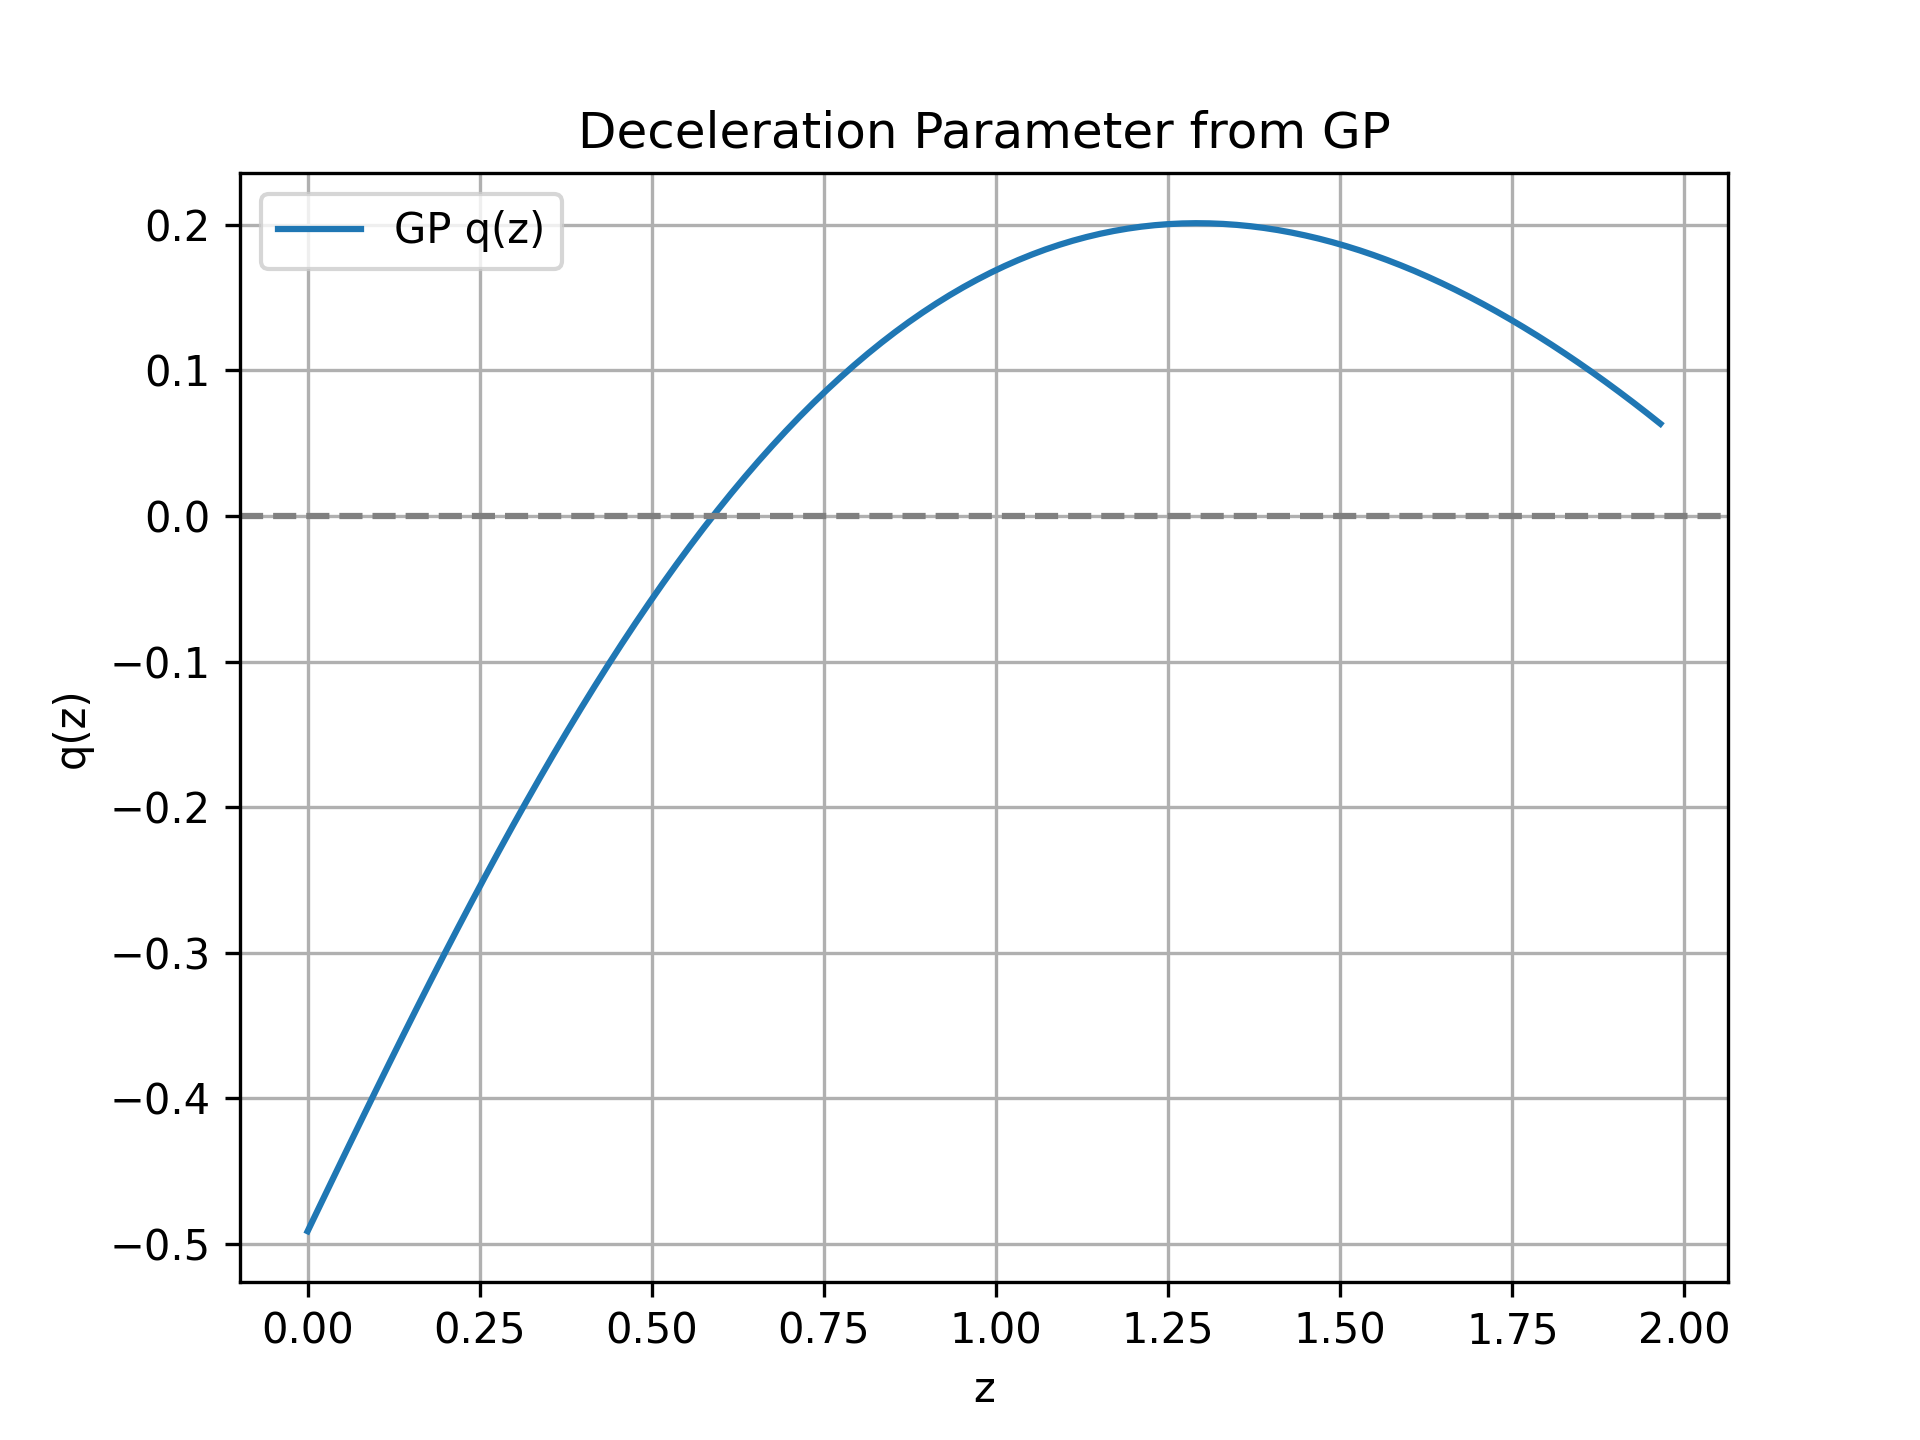
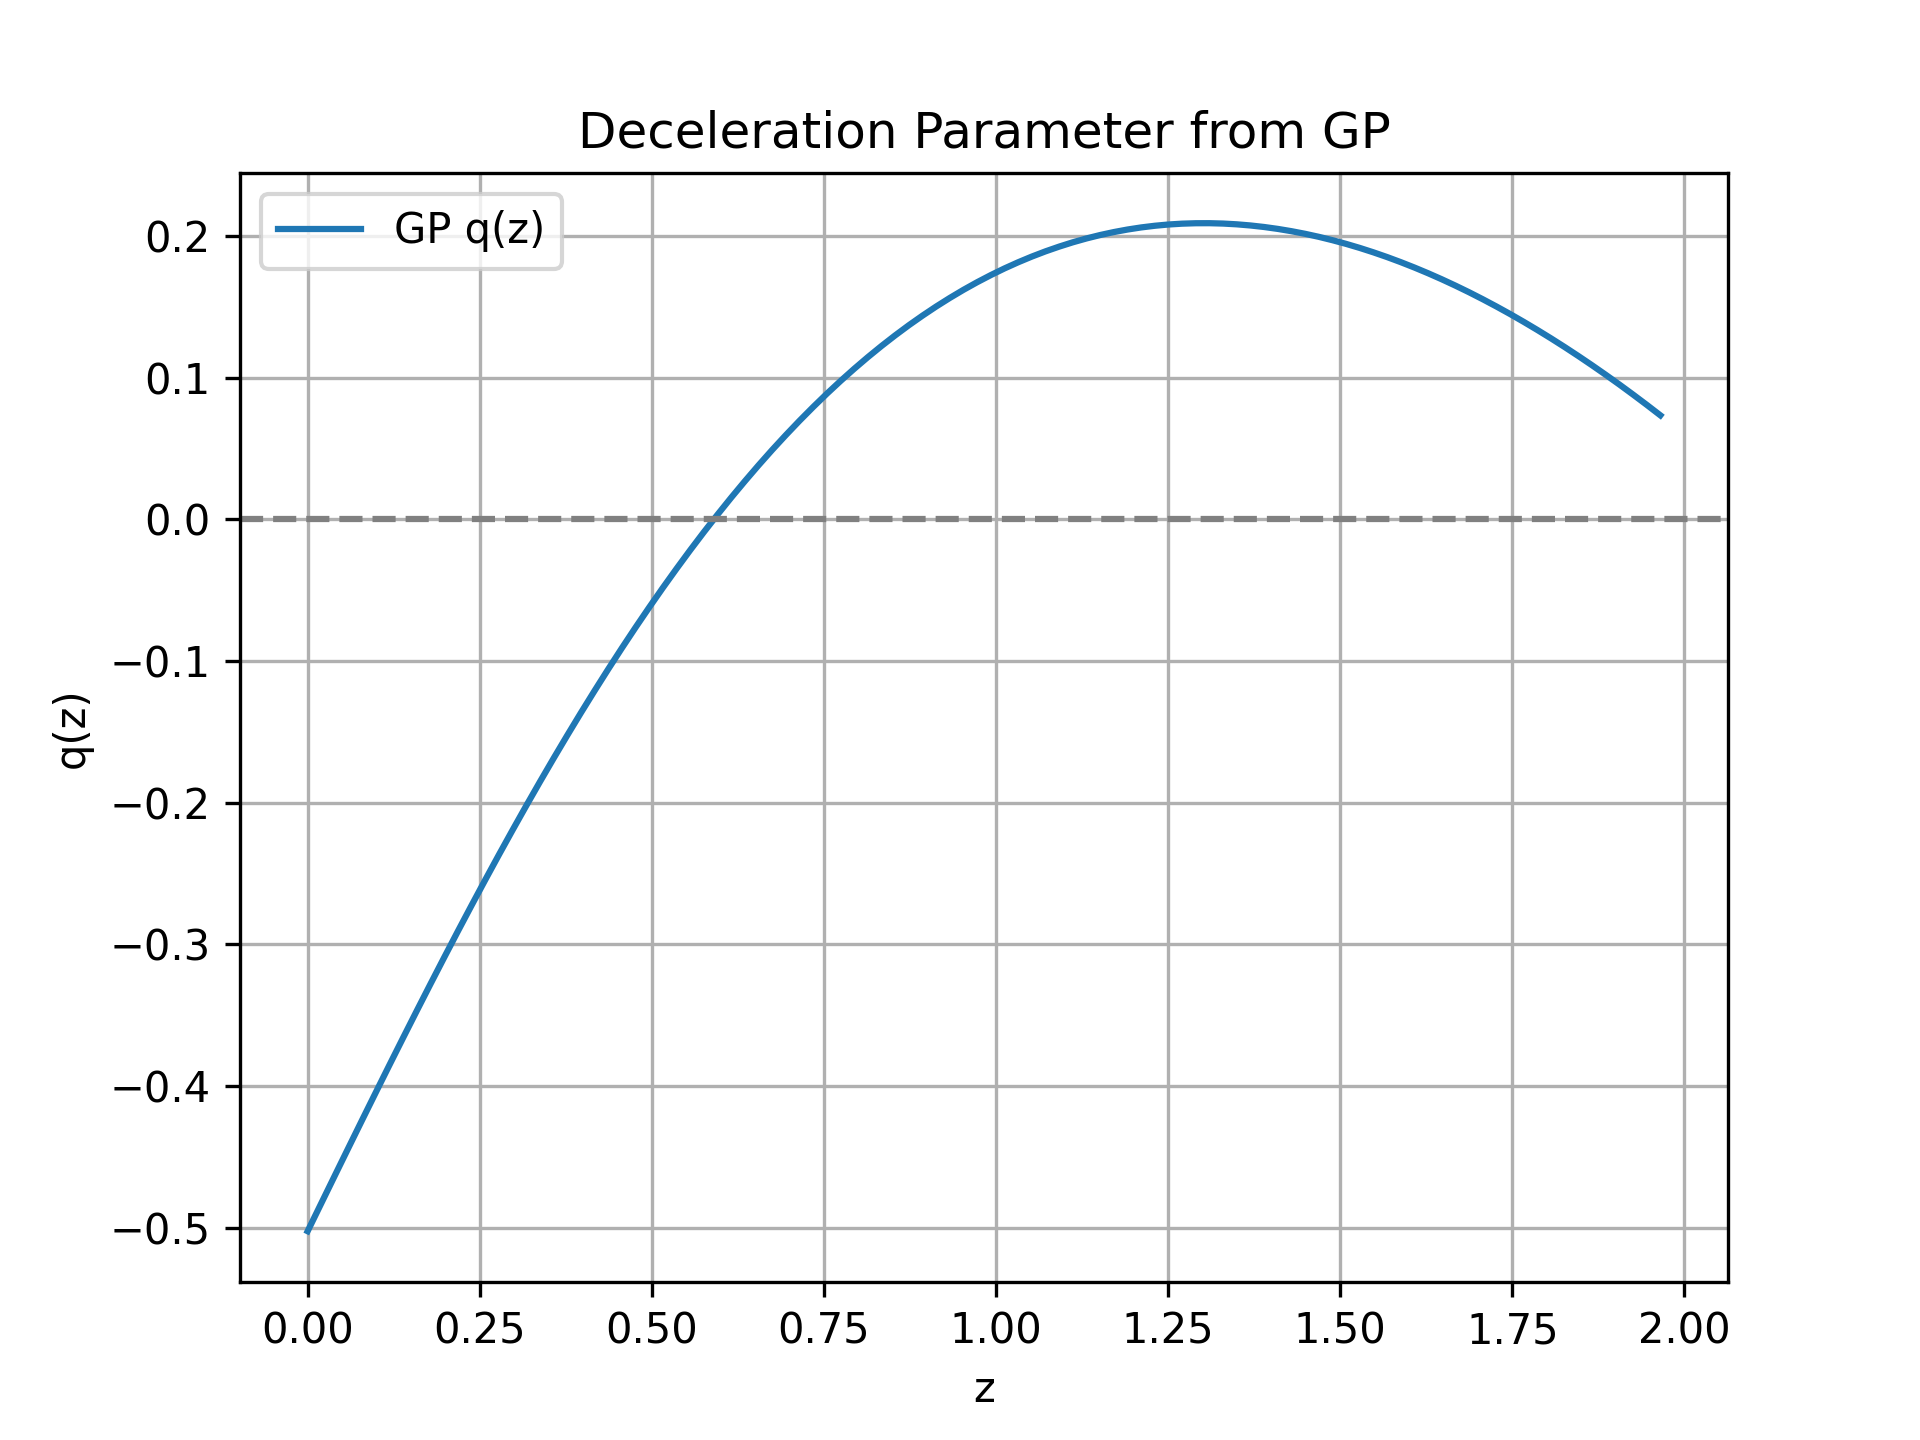
new cc data point from Loubser 2025

diff --git a/bao/desi_union3_cc.py b/bao/desi_union3_cc.py
@@ -255,77 +255,77 @@ if __name__ == "__main__":
 
 """
 Flat ΛCDM: w(z) = -1
-f_cc: 1.47 +0.19 -0.18
-ΔM: -0.119 +0.115 -0.115
-H0: 68.7 +2.3 -2.3
-r_d: 147.0 +5.0 -4.7
+f_cc: 1.47 +0.18 -0.18
+ΔM: -0.121 +0.113 -0.113
+H0: 68.6 +2.3 -2.3
+r_d: 147.1 +5.0 -4.6
 Ωm: 0.305 +0.008 -0.008
 w0: -1
-Chi squared: 70.15
-Degrees of freedom: 62
+Chi squared: 71.07
+Degrees of freedom: 63
 Correlation matrix:
-[[ 1.           7.49106e-03  6.71558e-04 -1.26503e-02  2.09495e-02]
- [ 7.49106e-03  1.           6.40112e-01 -6.30322e-01 -1.35075e-01]
- [ 6.71558e-04  6.40112e-01  1.          -9.78489e-01 -2.36343e-01]
- [-1.26503e-02 -6.30322e-01 -9.78489e-01  1.           5.37473e-02]
- [ 2.09495e-02 -1.35075e-01 -2.36343e-01  5.37473e-02  1.         ]]
+[[ 1.       0.00839  0.00528 -0.01803  0.02173]
+ [ 0.00839  1.       0.63723 -0.62528 -0.14372]
+ [ 0.00528  0.63723  1.      -0.97817 -0.24218]
+ [-0.01803 -0.62528 -0.97817  1.       0.05877]
+ [ 0.02173 -0.14372 -0.24218  0.05877  1.     ]]
 
 ==============================
 
 Flat wCDM: w(z) = w0
-f_cc: 1.46 +0.19 -0.18
-ΔM: -0.157 +0.115 -0.117 mag
-H0: 67.1 +2.4 -2.4 km/s/Mpc
-r_d: 147.1 +5.0 -4.7 Mpc
-Ωm: 0.298 +0.009 -0.009
-w0: -0.870 +0.051 -0.051
-Chi squared: 63.48
-Degrees of freedom: 61
+f_cc: 1.47 +0.19 -0.18
+ΔM: -0.158 +0.116 -0.117 mag
+H0: 67.1 +2.4 -2.3 km/s/Mpc
+r_d: 147.3 +5.0 -4.7 Mpc
+Ωm: 0.299 +0.009 -0.009
+w0: -0.871 +0.051 -0.051
+Chi squared: 64.53
+Degrees of freedom: 62
 Correlation matrix:
-[[ 1.       0.01204  0.00619 -0.01633  0.02709 -0.01335]
- [ 0.01204  1.       0.6522  -0.632   -0.07193 -0.13818]
- [ 0.00619  0.6522   1.      -0.94934 -0.09762 -0.27298]
- [-0.01633 -0.632   -0.94934  1.       0.04122  0.02225]
- [ 0.02709 -0.07193 -0.09762  0.04122  1.      -0.36839]
- [-0.01335 -0.13818 -0.27298  0.02225 -0.36839  1.     ]]
+[[ 1.       0.01169  0.01152 -0.0159   0.02073 -0.02177]
+ [ 0.01169  1.       0.6528  -0.63128 -0.07639 -0.1442 ]
+ [ 0.01152  0.6528   1.      -0.94895 -0.10269 -0.27759]
+ [-0.0159  -0.63128 -0.94895  1.       0.04269  0.0253 ]
+ [ 0.02073 -0.07639 -0.10269  0.04269  1.      -0.3544 ]
+ [-0.02177 -0.1442  -0.27759  0.0253  -0.3544   1.     ]]
 
 ==============================
 
 Flat alternative: w(z) = -1 + 2 * (1 + w0) / (1 + (1 + z)**3)
-f_cc: 1.45 +0.19 -0.18
-ΔM: -0.164 +0.115 -0.117 mag
+f_cc: 1.46 +0.18 -0.18
+ΔM: -0.165 +0.115 -0.117 mag
 H0: 66.7 +2.4 -2.3 km/s/Mpc
-r_d: 147.1 +5.0 -4.7 Mpc
-Ωm: 0.310 +0.009 -0.009
-w0: -0.810 +0.065 -0.067
-Chi squared: 61.60
-Degrees of freedom: 61
+r_d: 147.2 +5.0 -4.7 Mpc
+Ωm: 0.310 +0.009 -0.008
+w0: -0.811 +0.066 -0.067
+Chi squared: 62.59
+Degrees of freedom: 62
 Correlation matrix:
-[[ 1.       0.01143  0.01474 -0.01612  0.00612 -0.03317]
- [ 0.01143  1.       0.64719 -0.62638 -0.15679 -0.13828]
- [ 0.01474  0.64719  1.      -0.9393  -0.26979 -0.29549]
- [-0.01612 -0.62638 -0.9393   1.       0.04681  0.00607]
- [ 0.00612 -0.15679 -0.26979  0.04681  1.       0.24582]
- [-0.03317 -0.13828 -0.29549  0.00607  0.24582  1.     ]]
+[[ 1.       0.00697  0.01083 -0.01303  0.00814 -0.02863]
+ [ 0.00697  1.       0.6435  -0.61921 -0.16838 -0.14937]
+ [ 0.01083  0.6435   1.      -0.93879 -0.2726  -0.31085]
+ [-0.01303 -0.61921 -0.93879  1.       0.04871  0.02084]
+ [ 0.00814 -0.16838 -0.2726   0.04871  1.       0.24825]
+ [-0.02863 -0.14937 -0.31085  0.02084  0.24825  1.     ]]
 
 ===============================
 
 Flat w0waCDM w(z) = w0 + wa * z / (1 + z)
-f_cc: 1.44 +0.19 -0.18
-ΔM: -0.169 +0.117 -0.117 mag
-H0: 66.3 +2.4 -2.3 km/s/Mpc
-r_d: 147.1 +5.0 -4.7 Mpc
+f_cc: 1.45 +0.18 -0.18
+ΔM: -0.167 +0.116 -0.118 mag
+H0: 66.3 +2.4 -2.4 km/s/Mpc
+r_d: 147.1 +5.1 -4.7 Mpc
 Ωm: 0.329 +0.016 -0.019
-w0: -0.724 +0.112 -0.107
-wa: -0.889 +0.565 -0.555
-Chi squared: 60.16
-Degrees of freedom: 60
+w0: -0.725 +0.113 -0.107
+wa: -0.887 +0.564 -0.555
+Chi squared: 61.22
+Degrees of freedom: 61
 Correlation matrix:
-[[ 1.       0.00982  0.01844 -0.01658 -0.02118 -0.05089  0.04212]
- [ 0.00982  1.       0.64706 -0.63129 -0.06368 -0.08806  0.0294 ]
- [ 0.01844  0.64706  1.      -0.92767 -0.22785 -0.2811   0.18038]
- [-0.01658 -0.63129 -0.92767  1.      -0.01208 -0.0192   0.02873]
- [-0.02118 -0.06368 -0.22785 -0.01208  1.       0.72764 -0.86209]
- [-0.05089 -0.08806 -0.2811  -0.0192   0.72764  1.      -0.88228]
- [ 0.04212  0.0294   0.18038  0.02873 -0.86209 -0.88228  1.     ]]
+[[ 1.       0.00752  0.01645 -0.01413 -0.03293 -0.05057  0.04854]
+ [ 0.00752  1.       0.64539 -0.6261  -0.09129 -0.10317  0.04608]
+ [ 0.01645  0.64539  1.      -0.92733 -0.2588  -0.28832  0.1947 ]
+ [-0.01413 -0.6261  -0.92733  1.       0.00794 -0.01275  0.01455]
+ [-0.03293 -0.09129 -0.2588   0.00794  1.       0.75963 -0.87139]
+ [-0.05057 -0.10317 -0.28832 -0.01275  0.75963  1.      -0.88604]
+ [ 0.04854  0.04608  0.1947   0.01455 -0.87139 -0.88604  1.     ]]
 """

diff --git a/cosmic_chronometers/cc.py b/cosmic_chronometers/cc.py
@@ -118,71 +118,72 @@ if __name__ == "__main__":
 *******************************
 Results for data from
 https://arxiv.org/pdf/2307.09501
+and one data point from
+https://arxiv.org/pdf/2506.03836
 *******************************
 
 Flat ΛCDM
 With f:
-H0: 67.1 +3.7 -3.8 km/s/Mpc
+H0: 67.0 +3.7 -3.8 km/s/Mpc
 Ωm: 0.329 +0.052 -0.044
 w0: -1
-wa: 0
-f: 1.445 +0.189 -0.181
-Chi squared: 30.30
-Log likelihood: -126.07
-Degs of freedom: 29
+f: 1.456 +0.186 -0.179
+Chi squared: 31.34
+Log likelihood: -130.44
+Degs of freedom: 30
 Correlation matrix:
-[ 1.      -0.80632  0.03013 ]
-[-0.80632  1.      -0.04886 ]
-[ 0.03013 -0.04886  1.      ]
+[[ 1.      -0.80842  0.03265]
+ [-0.80842  1.      -0.05184]
+ [ 0.03265 -0.05184  1.     ]]
 
 Without f:
-H0: 66.7 +5.4 -5.4 km/s/Mpc
-Ωm: 0.335 +0.079 -0.063
+H0: 66.6 +5.4 -5.5 km/s/Mpc
+Ωm: 0.335 +0.080 -0.063
 w0: -1
-Chi squared: 14.53
-Log likelihood: -129.97
-Degs of freedom: 29
+Chi squared: 14.81
+Log likelihood: -134.57
+Degs of freedom: 31
 correlation matrix:
-[ 1.      -0.80595 ]
-[-0.80595   1.     ]
+[[ 1.      -0.80645]
+ [-0.80645  1.     ]]
 
 Log likelihood ratio test:
 -2 * log(L0/L1) = -2 * log(L0) + 2 * log(L1)
--2 * (-129.97) + 2 * (-126.07) = 7.8
-p-value = 0.005
-99.5% confident that the model with f is better than the one without f.
-So the uncertainties in the H(z) dataset are overestimated by a factor of 1.44 ± 0.19.
-2.35 - 2.46 sigma between f=1 and f=1.44.
+-2 * (-134.57) + 2 * (-130.44) = 8.26
+p-value = 0.0016
+We are 99.84% confident that the model with f is better than the one without f.
+So the uncertainties in the H(z) dataset are overestimated by a factor of 1.46 ± 0.18.
+2.5 sigma between f=1 and f=1.46.
 
 ===============================
 
 Flat wCDM
-H0: 70.3 +7.3 -6.1 km/s/Mpc
+H0: 70.6 +7.3 -6.2 km/s/Mpc
 Ωm: 0.313 +0.052 -0.050
-w0: -1.377 +0.517 -0.637
-f: 1.431 +0.189 -0.181
-Chi squared: 29.92
-Log likelihood: -126.20
-Degs of freedom: 28
+w0: -1.409 +0.521 -0.629
+f: 1.441 +0.188 -0.179
+Chi squared: 30.83
+Log likelihood: -130.52
+Degs of freedom: 29
 Correlation matrix:
-[[ 1.      -0.3785  -0.7599  -0.00985]
- [-0.3785   1.      -0.03595  0.03098]
- [-0.7599  -0.03595  1.       0.04381]
- [-0.00985  0.03098  0.04381  1.     ]]
+[[ 1.      -0.39663 -0.76288 -0.00373]
+ [-0.39663  1.      -0.01346  0.02089]
+ [-0.76288 -0.01346  1.       0.03699]
+ [-0.00373  0.02089  0.03699  1.     ]]
 
 ===============================
 
 Flat w(z) = -1 + 2 * (1 + w0) / ((1 + z)**3 + 1)
-H0: 71.8 +7.9 -6.9 km/s/Mpc
-Ωm: 0.304 +0.056 -0.047
-w0: -1.533 +0.620 -0.724
-f: 1.437 +0.189 -0.180
-Chi squared: 29.62
-Log likelihood: -125.91
-Degs of freedom: 28
+H0: 71.9 +7.9 -6.8 km/s/Mpc
+Ωm: 0.304 +0.055 -0.046
+w0: -1.546 +0.612 -0.715
+f: 1.449 +0.188 -0.180
+Chi squared: 30.60
+Log likelihood: -130.23
+Degs of freedom: 29
 Correlation matrix:
-[[ 1.      -0.80728 -0.78915  0.01215]
- [-0.80728  1.       0.4792  -0.03188]
- [-0.78915  0.4792   1.       0.01055]
- [ 0.01215 -0.03188  0.01055  1.     ]]
+[[ 1.      -0.811   -0.78965  0.03278]
+ [-0.811    1.       0.48468 -0.05246]
+ [-0.78965  0.48468  1.      -0.00735]
+ [ 0.03278 -0.05246 -0.00735  1.     ]]
 """

diff --git a/cosmic_chronometers/cc_union3.py b/cosmic_chronometers/cc_union3.py
@@ -165,36 +165,36 @@ if __name__ == "__main__":
 
 """
 Flat ΛCDM: w(z) = -1
-f_cc: 1.46 +0.19 -0.18
-ΔM: -0.204 +0.124 -0.121 mag
-H0: 66.0 +2.6 -2.6 km/s/Mpc
-Ωm: 0.349 +0.024 -0.023
+f_cc: 1.47 +0.18 -0.18
+ΔM: -0.204 +0.122 -0.122 mag
+H0: 65.9 +2.6 -2.6 km/s/Mpc
+Ωm: 0.348 +0.024 -0.023
 w0: -1
-Chi squared: 55.15
-Log likelihood: -138.21
-Degrees of freedom: 50
+Chi squared: 56.25
+Log likelihood: -142.58
+Degrees of freedom: 51
 
 ==============================
 
 Flat wCDM: w(z) = w0
-f_cc: 1.44 +0.19 -0.18
-ΔM: -0.177 +0.124 -0.124 mag
-H0: 66.4 +2.7 -2.7 km/s/Mpc
-Ωm: 0.305 +0.048 -0.055
-w0: -0.85 +0.13 -0.14
-Chi squared: 53.20
-Log likelihood: -137.58
-Degrees of freedom: 49
+f_cc: 1.45 +0.19 -0.18
+ΔM: -0.181 +0.125 -0.123 mag
+H0: 66.4 +2.7 -2.6 km/s/Mpc
+Ωm: 0.307 +0.047 -0.054
+w0: -0.86 +0.13 -0.14
+Chi squared: 54.13
+Log likelihood: -141.99
+Degrees of freedom: 50
 
 ==============================
 
-Flat alternative: w(z) = w0 - (1 + w0) * (((1 + z)**3 - 1) / ((1 + z)**3 + 1))
-f_cc: 1.44 +0.19 -0.18
-ΔM: -0.179 +0.124 -0.124 mag
-H0: 66.3 +2.6 -2.6 km/s/Mpc
+Flat alternative: w(z) = -1 + 2 * (1 + w0) / ((1 + z)**3 + 1)
+f_cc: 1.45 +0.19 -0.18
+ΔM: -0.179 +0.125 -0.125 mag
+H0: 66.3 +2.7 -2.6 km/s/Mpc
 Ωm: 0.321 +0.034 -0.033
 w0: -0.84 +0.12 -0.13
-Chi squared: 52.79
-Log likelihood: -137.39
-Degrees of freedom: 49
+Chi squared: 53.90
+Log likelihood: -141.79
+Degrees of freedom: 50
 """

diff --git a/y2005cc/data.py b/y2005cc/data.py
@@ -48,7 +48,8 @@ def get_data():
 Covariance components: https://arxiv.org/pdf/2003.07362
 Covariance matrix construction: https://gitlab.com/mmoresco/CCcovariance/-/blob/master/examples/CC_covariance.ipynb
 
-Current data from https://arxiv.org/pdf/2307.09501 
+Current data from https://arxiv.org/pdf/2307.09501
+and https://arxiv.org/pdf/2506.03836
 z,H,sigma_H,method,ref
 0.09,69,12,F,72
 0.27,77,14,F,72
